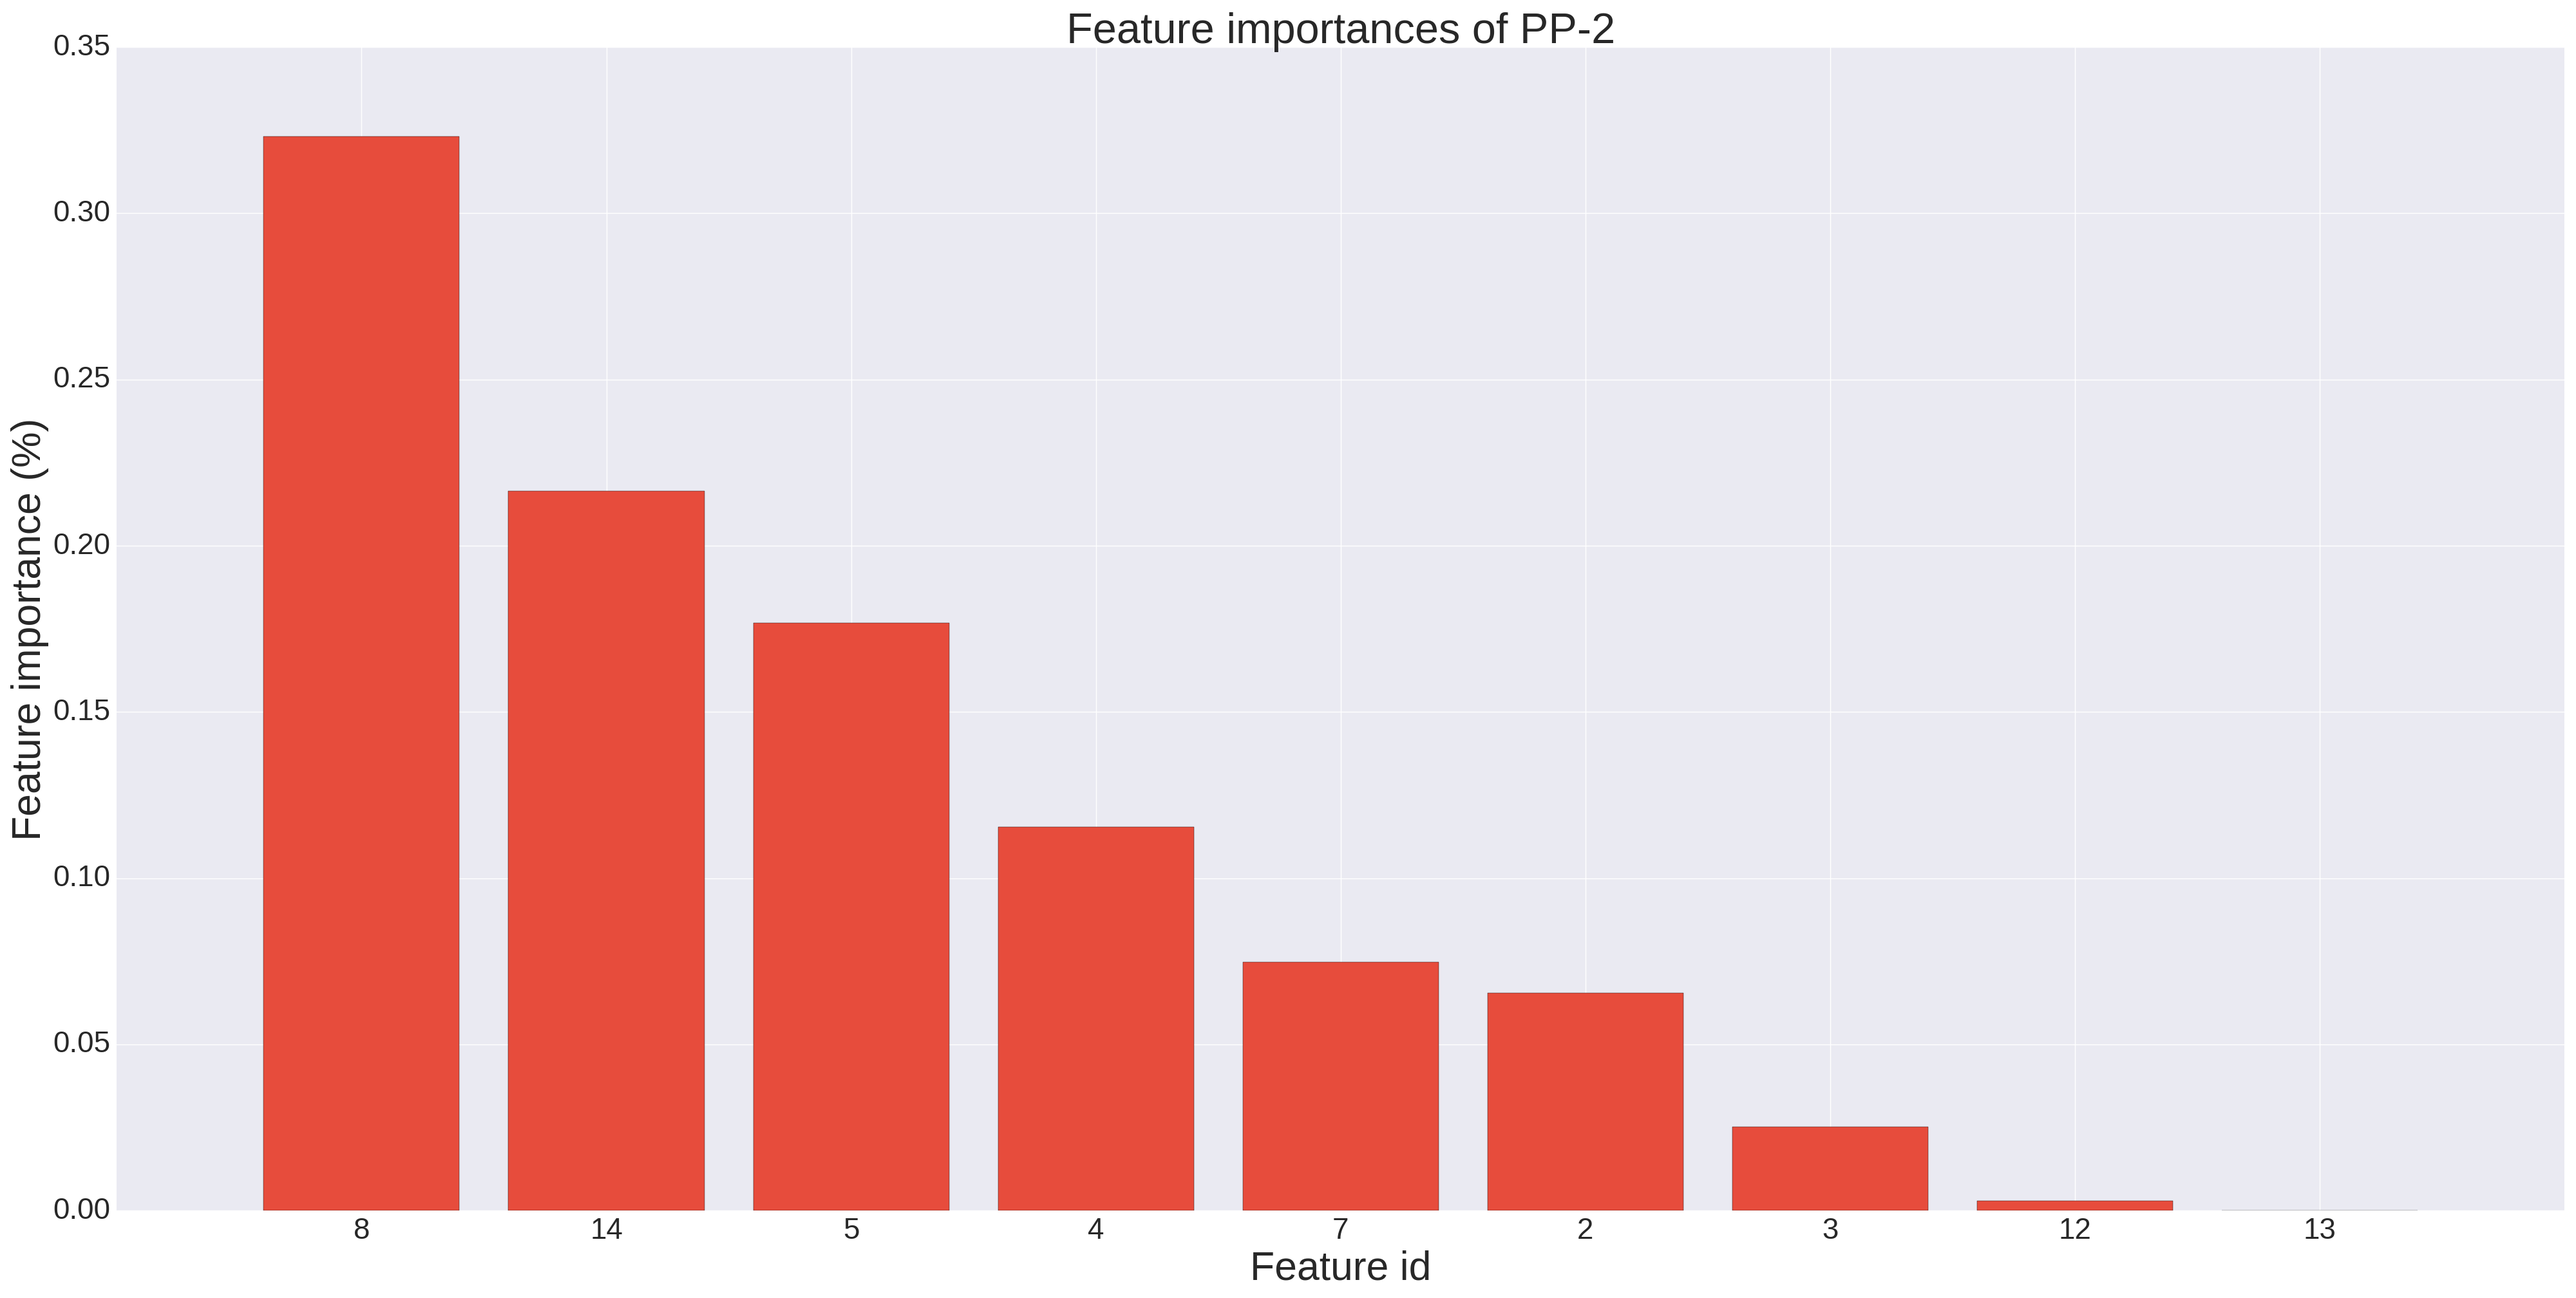
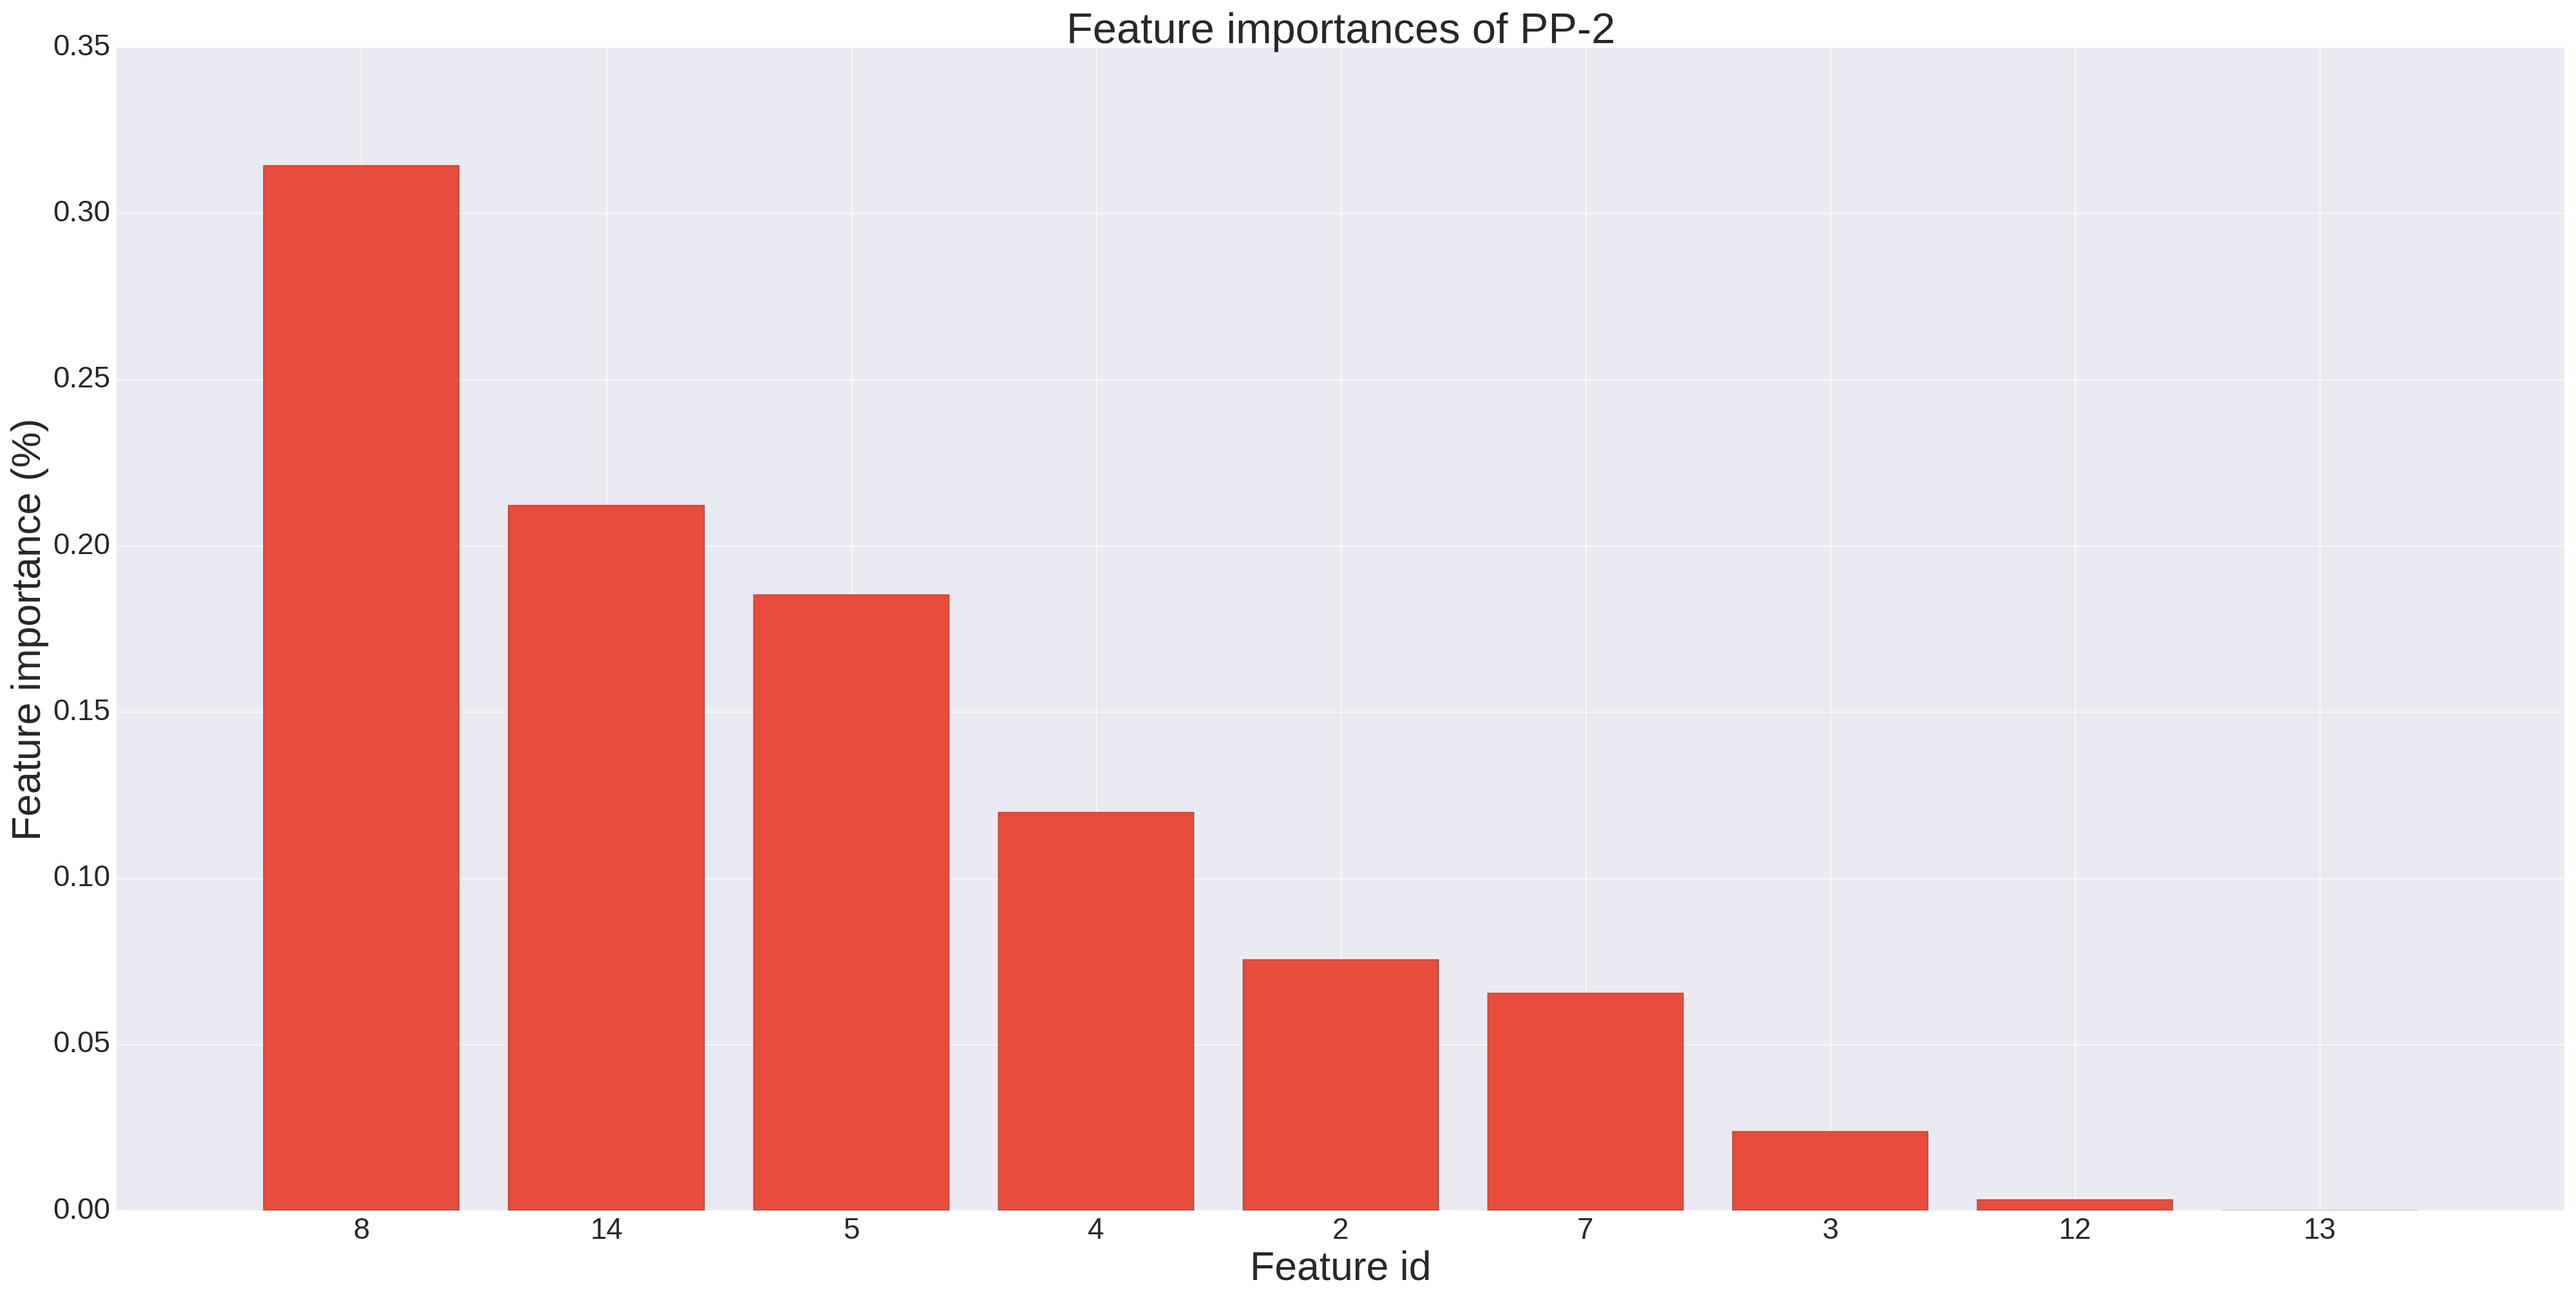
precision and recall updated

diff --git a/tools/scripts/model_performance.py b/tools/scripts/model_performance.py
@@ -129,6 +129,7 @@ def plot_performance(all_data, undersampling=False):
         precision_score_rf = [0,0]
         recall_score_lr = [0,0]
         recall_score_rf = [0,0]
+        f_score = 0.0
         for j, data in enumerate(pair):
             pair_name = data[6]
 
@@ -158,15 +159,18 @@ def plot_performance(all_data, undersampling=False):
             recall_score_rf[0] += sklearn.metrics.recall_score(data[4], grid_search.predict(data[3]), pos_label=0)
             precision_score_rf[1] += sklearn.metrics.precision_score(data[4], grid_search.predict(data[3]), pos_label=1)
             recall_score_rf[1] += sklearn.metrics.recall_score(data[4], grid_search.predict(data[3]), pos_label=1)
+            
             # forest ROC
             false_positive_rate, true_positive_rate, _ = roc_curve(
                 data[4], y_pred)
             mean_tpr_rf += interp(mean_fpr_rf, false_positive_rate, true_positive_rate)
-            target_importance = "TP-2"
+            target_importance = "PP-2"
             if pair_name == target_importance:
                 importances = np.add(grid_search.best_estimator_.feature_importances_, importances)
         #if i == 3 and j == 1:
         #    print(importances/2)
+        f_score_lr = (2 * (precision_score_lr[1]/2 * recall_score_lr[1]/2) / (precision_score_lr[1]/2 + recall_score_lr[1]/2))
+        f_score_rf = (2 * (precision_score_rf[1]/2 * recall_score_rf[1]/2) / (precision_score_rf[1]/2 + recall_score_rf[1]/2))
         mean_tpr_lr /= 2
         mean_tpr_rf /= 2
 
@@ -177,8 +181,8 @@ def plot_performance(all_data, undersampling=False):
 
         mean_auc_rf = auc(mean_fpr_rf, mean_tpr_rf)
         print("For pair: {}\n---------".format(pair_name))
-        print("Precision,Recall score (LR) for negative: {},{} and positive: {},{}".format(precision_score_lr[0]/2, recall_score_lr[0]/2, precision_score_lr[1]/2, recall_score_lr[1]/2))
-        print("Precision,Recall score (RF) for negative: {},{} and positive: {},{}".format(precision_score_rf[0]/2, recall_score_rf[0]/2, precision_score_rf[1]/2, recall_score_rf[1]/2))
+        print("\t\tPrecision,\t\tRecall\t\t f-score \nLR:\t {}  \t{}  \t{}".format(precision_score_lr[1]/2, recall_score_lr[1]/2, f_score_lr))
+        print("RF:\t {}  \t{}  \t{}".format(precision_score_rf[1]/2, recall_score_rf[1]/2, f_score_rf))
         print("---------")
         # Compute ROC curve and ROC area for each class
         if undersampling:
@@ -226,7 +230,7 @@ def plot_feature_importance(feature_impor, feature_id, pair_name, undersampling)
     plt.show()
 
 if __name__ == '__main__':
-    undersampling = True
+    undersampling = False
     feature_impor, pair = plot_performance(gen_alldata(), undersampling=undersampling)
     feature_id = [7, 3, 2, 4, 13, 12, 5, 8, 14]
     plot_feature_importance(feature_impor, feature_id, pair, undersampling=undersampling)

diff --git a/report/results.tex b/report/results.tex
@@ -68,25 +68,25 @@ In Table \ref{table:models_performance_report} and \ref{table:models_performance
 
 \begin{table}[H]
 \centering
-\begin{tabular}{|c|c|c|c|c|c|c|c|c|c|c|}
+\begin{tabular}{|c|c|c|c|c|c|c|c|}
 \hline
-\textbf{Model} & \textbf{PPV +} & \textbf{TPR +} & \textbf{PPV -} & \textbf{TPR -}   \\
+\textbf{Model} & \textbf{PPV +} & \textbf{TPR +} & \textbf{f-score}   \\
 \specialrule{.20em}{.0em}{.0em}
-LR in TP-1    & 0.25 & 0.67 & 0.86 & 0.50\\
+LR in TP-1    & 0.25 & 0.67 & 0.37 \\
 \hline
-RF in TP-1    & 0.48 & 0.15 & 0.82 & 0.95\\
+RF in TP-1    & 0.47 & 0.15 & 0.23 \\
 \specialrule{.15em}{.0em}{.0em} 
-LR in TP-2    & 0.53 & 0.68 & 0.70 & 0.56\\
+LR in TP-2    & 0.53 & 0.68 & 0.59 \\
 \hline
-RF in TP-2    & 0.54 & 0.50 & 0.66 & 0.69\\
+RF in TP-2    & 0.54 & 0.52 & 0.53 \\
 \specialrule{.15em}{.0em}{.0em}
-LR in PP-1    & 0.66 & 0.74 & 0.54 & 0.45\\
+LR in PP-1    & 0.66 & 0.74 & 0.70 \\
 \hline
-RF in PP-1    & 0.65 & 0.61 & 0.54 & 0.49\\
+RF in PP-1    & 0.65 & 0.61 & 0.63 \\
 \specialrule{.15em}{.0em}{.0em}
-LR in PP-2    & 0.94 & 0.81 & 0.17 & 0.40\\
+LR in PP-2    & 0.94 & 0.81 & 0.87 \\
 \hline
-RF in PP-2    & 0.93 & 0.99 & 0.53 & 0.10\\
+RF in PP-2    & 0.93 & 0.99 & 0.96 \\
 \hline
 \end{tabular}
 \caption{Models performance metrics without undersampling}
@@ -106,25 +106,25 @@ In PP-2 we have an fantastic precision and recall for 'did meet'. \textcolor{red
 
 \begin{table}[H]
 \centering
-\begin{tabular}{|c|c|c|c|c|c|c|c|c|c|c|}
+\begin{tabular}{|c|c|c|c|c|c|c|c|}
 \hline
-\textbf{Model} & \textbf{PPV +} & \textbf{TPR +} & \textbf{PPV -} & \textbf{TPR -}   \\
+\textbf{Model} & \textbf{PPV +} & \textbf{TPR +} & \textbf{f-score}    \\
 \specialrule{.20em}{.0em}{.0em}
-LR in TP-1    & 0.25 & 0.67 & 0.86 & 0.50\\
+LR in TP-1    & 0.25 & 0.67 & 0.37 \\
 \hline
-RF in TP-1    & 0.28 & 0.53 & 0.85 & 0.66\\
+RF in TP-1    & 0.28 & 0.53 & 0.37 \\
 \specialrule{.15em}{.0em}{.0em} 
-LR in TP-2    & 0.53 & 0.68 & 0.70 & 0.56\\
+LR in TP-2    & 0.53 & 0.68 & 0.59 \\
 \hline
-RF in TP-2    & 0.53 & 0.64 & 0.69 & 0.58\\
+RF in TP-2    & 0.53 & 0.62 & 0.57 \\
 \specialrule{.15em}{.0em}{.0em}
-LR in PP-1    & 0.66 & 0.74 & 0.54 & 0.45\\
+LR in PP-1    & 0.66 & 0.74 & 0.70 \\
 \hline
-RF in PP-1    & 0.66 & 0.53 & 0.50 & 0.59\\
+RF in PP-1    & 0.66 & 0.56 & 0.61 \\
 \specialrule{.15em}{.0em}{.0em}
-LR in PP-2    & 0.94 & 0.81 & 0.17 & 0.40\\
+LR in PP-2    & 0.94 & 0.81 & 0.87 \\
 \hline
-RF in PP-2    & 0.95 & 0.87 & 0.25 & 0.44\\
+RF in PP-2    & 0.95 & 0.89 & 0.92 \\
 \hline
 \end{tabular}
 \caption{Models performance metrics with undersampling}
